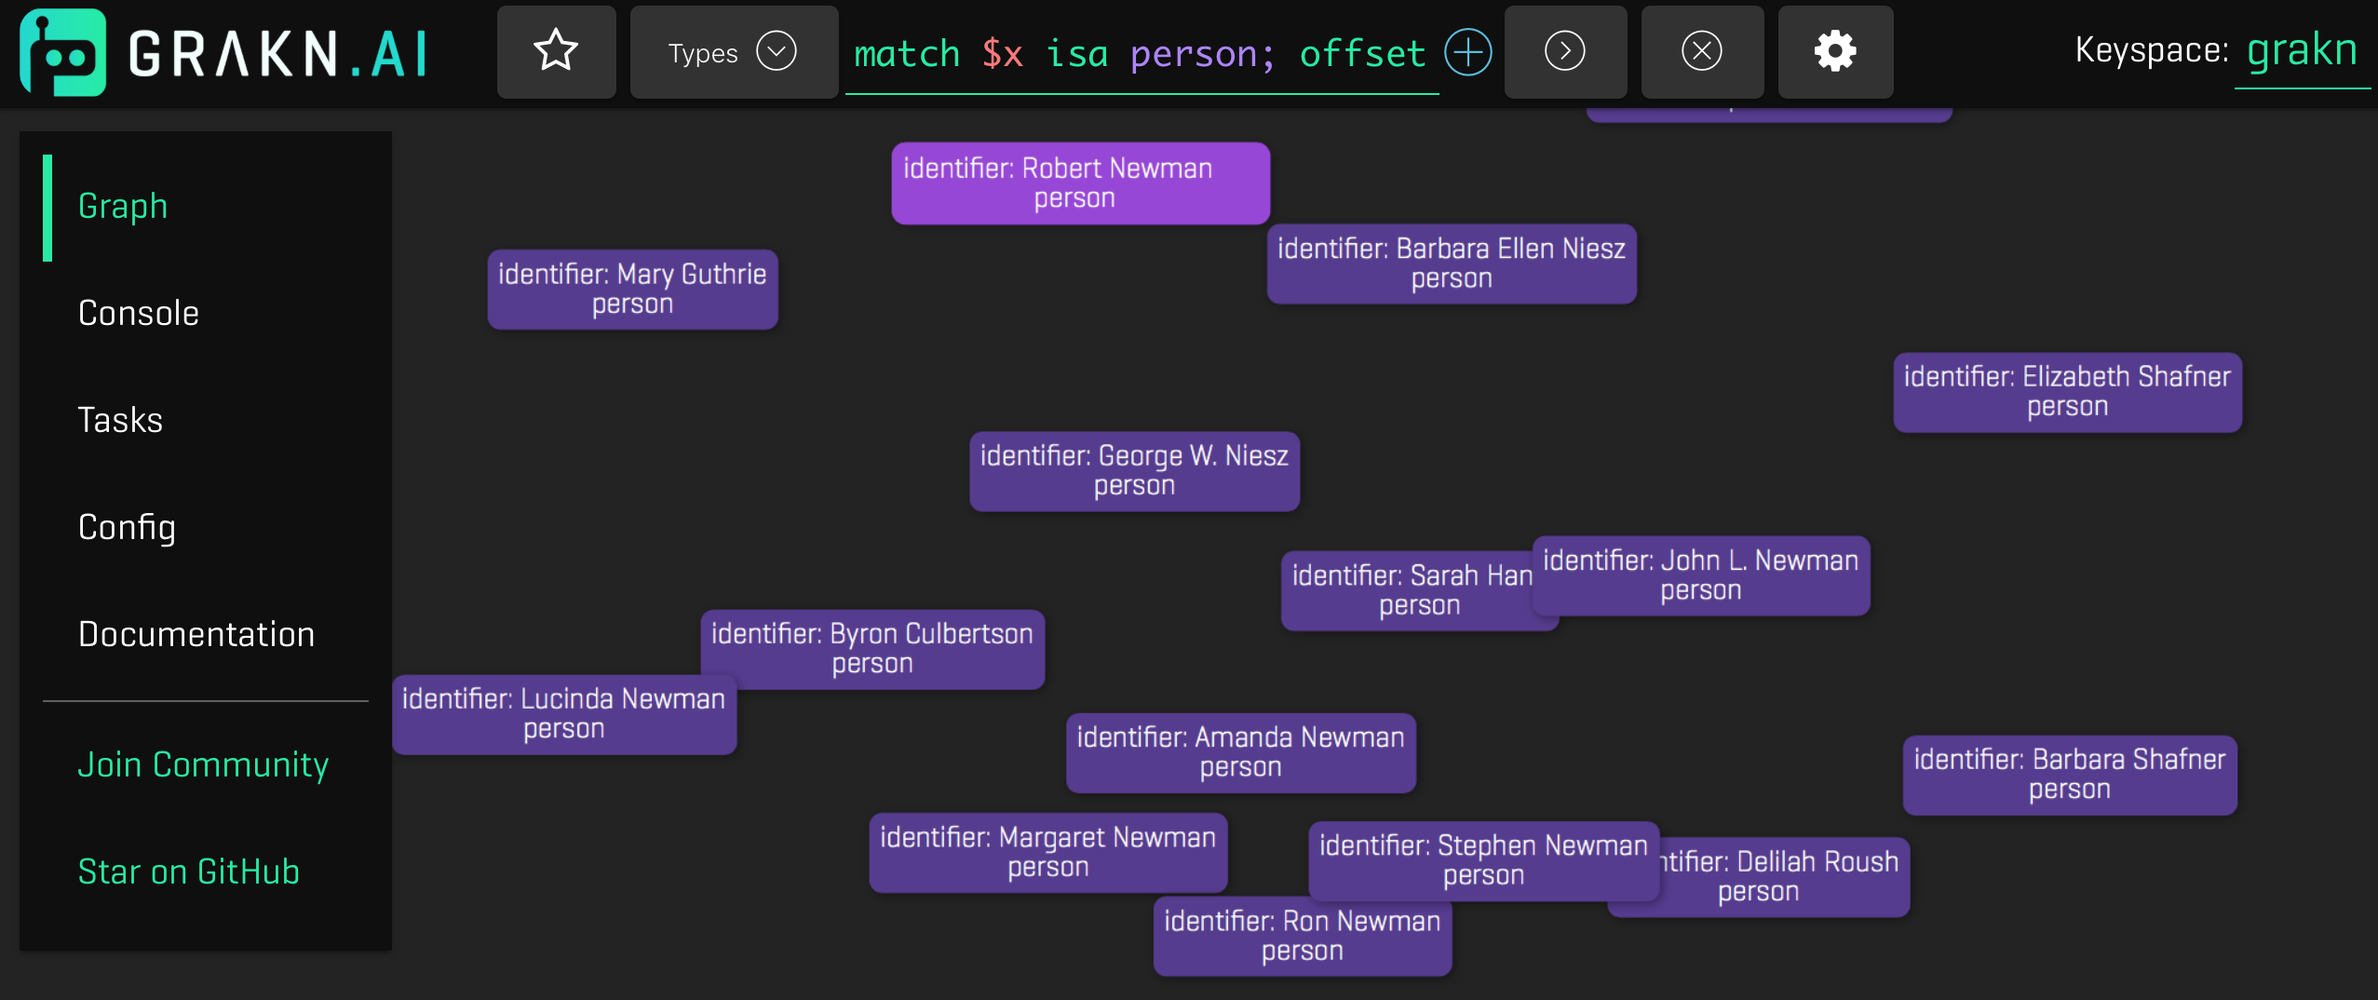
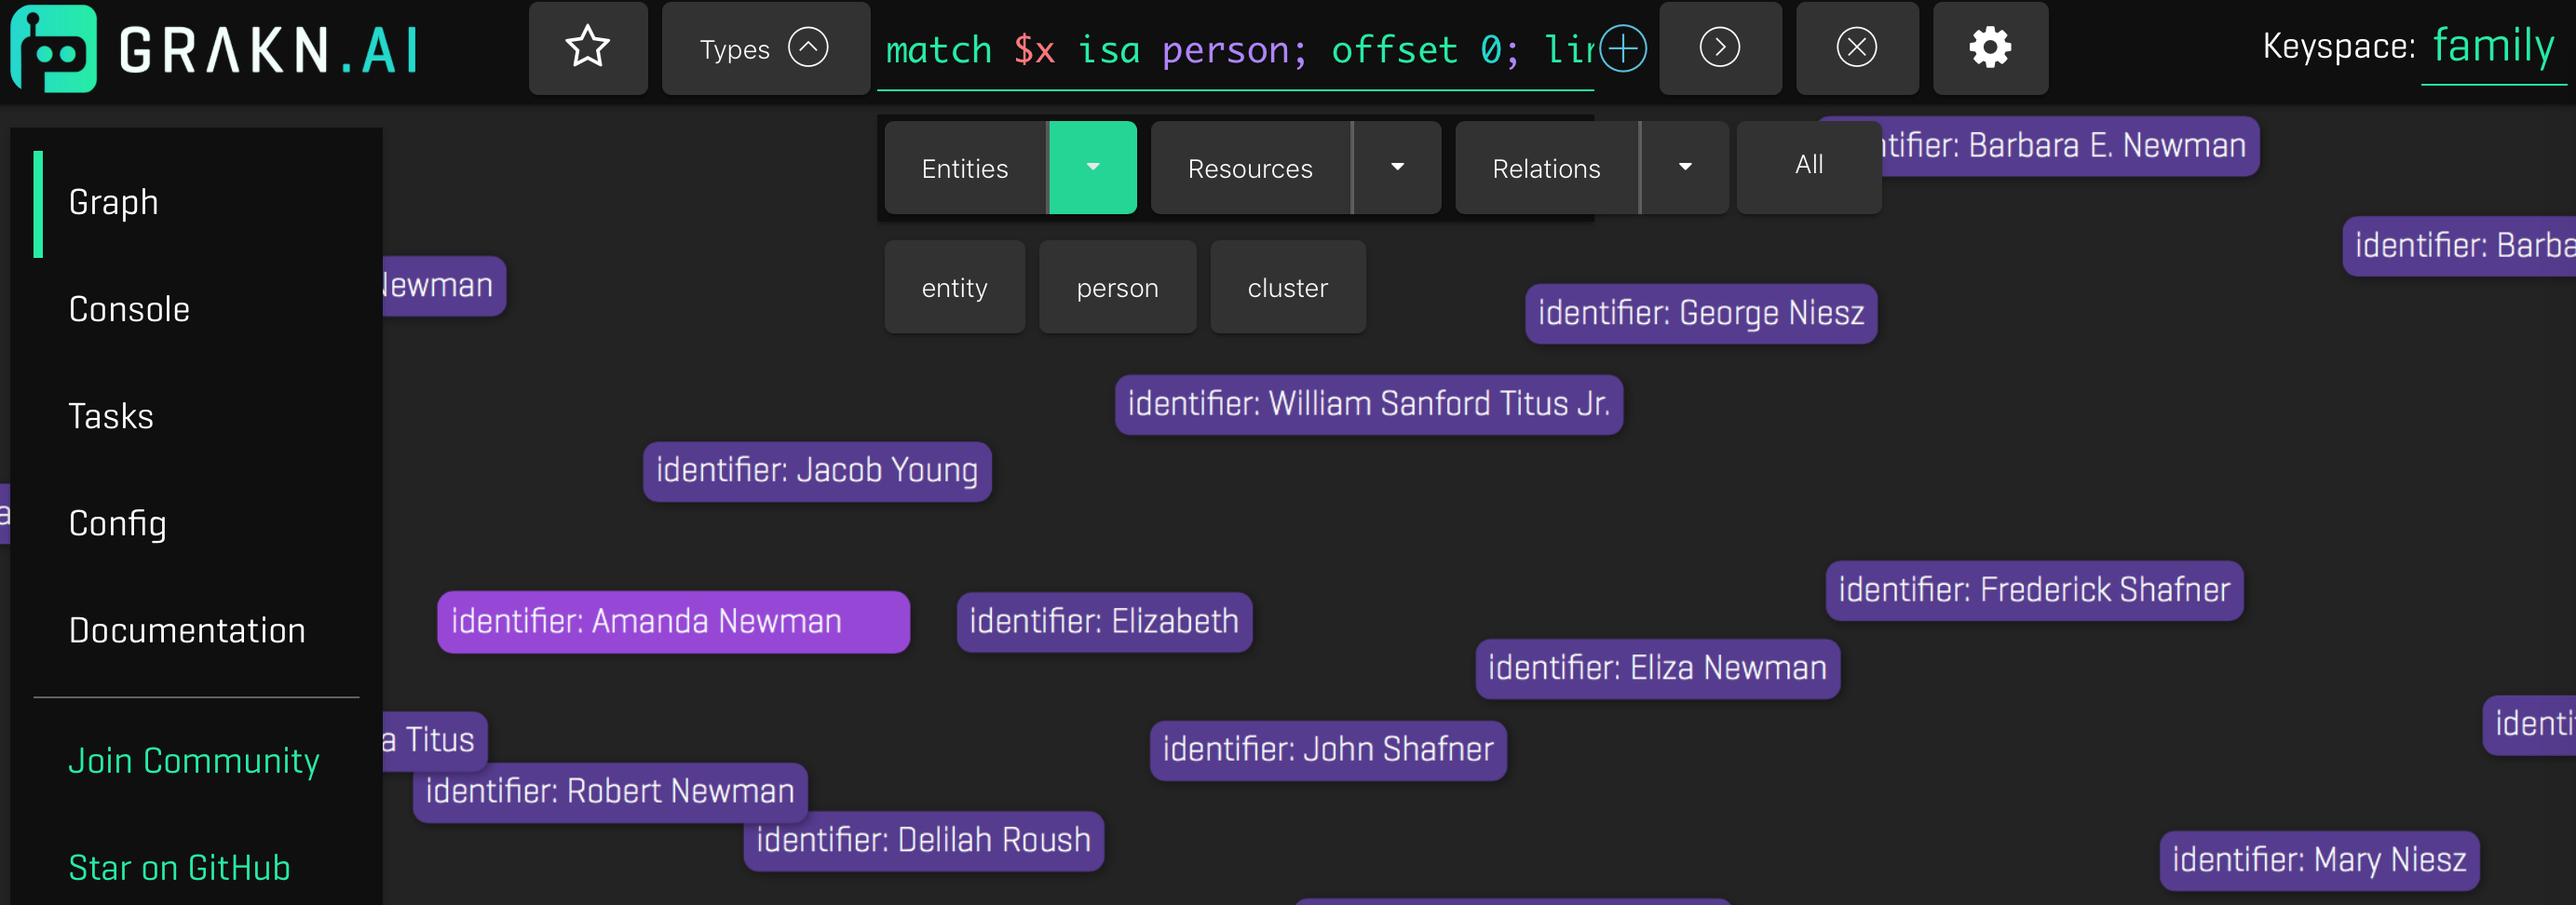
Update visualiser documentation

diff --git a/pages/documentation/7-grakn-dashboard/visualiser.md b/pages/documentation/7-grakn-dashboard/visualiser.md
@@ -10,12 +10,12 @@ folder: documentation
 comment_issue_id: 17
 ---
 
-{% include warning.html content="<b>These instructions refer to the 0.11 release of GRAKN.AI. The latest version has some differences to its look and feel, and you may find that some instructions are currently inaccurate. Apologies! We will update this information very shortly.</b>" %}
+{% include note.html content="These instructions refer to the <b>[0.12.1](https://github.com/graknlabs/grakn/releases/tag/v0.12.1)</b> release of GRAKN.AI. Later versions of the product may include some changes to the user experience, and you may find that some instructions become out-dated. We will endeavour to update information on this page as soon after a release as is possible. The instructions here refer to use of the visualiser on macOS, and screen grabs were taken in Safari." %}
 
 ## Introduction
-The Grakn visualiser provides a graphical tool to inspect and query your graph data. This article shows how to get it up and running on a basic example and introduces the visualiser's key features.
+The Grakn visualiser provides a graphical tool to inspect and query your graph data. This article shows how to run it with a basic example and introduces the visualiser's key features.
 
-## Loading and Visualising a Graph
+## Loading an Example Graph
 If you have not yet set up the Grakn environment, please see the [Setup guide](../get-started/setup-guide.html).
 
 You can find the *basic-genealogy.gql* example that we will work with in the *examples* directory of the Grakn distribution zip. You can also find this file on [Github](https://github.com/graknlabs/grakn/blob/master/grakn-dist/src/examples/basic-genealogy.gql). 
@@ -27,33 +27,31 @@ The first step is to load the ontology and data into Grakn. You need to use your
 <relative-path-to-Grakn>/bin/graql.sh -f ./examples/basic-genealogy.gql -k "family"
 ```
 
-{% include note.html content="To illustrate the use of different keyspaces, will we use a keyspace called `family` in this example, but you can simply use the default keyspace if you prefer, if it is not already in use, by omitting the -k argument." %}
+To illustrate the use of different keyspaces we will use a keyspace called `family` in this example. You can simply use the default (`grakn`) keyspace if you prefer, by omitting the -k argument.
 
 You can test in the Graql shell that all has loaded correctly. For example:
 
 ```bash
 <relative-path-to-Grakn>/bin/graql.sh -k family
-match $p isa person, has identifier $i;
+>>>match $p isa person, has identifier $i;
 ```
 
-Now open the visualiser by browsing to [localhost:4567](http://localhost:4567). 
+If all is well, you can open the visualiser by browsing to [localhost:4567](http://localhost:4567). 
 
-To visualise your graph, go to the keyspace selector on the top right and select the appropriate keyspace, e.g. `family`.
+There are a number of horizontal tabs on the left hand side of the screen, which open panes, described as follows.
 
-The main pane of your graph will be empty at this point. Click the Types dropdown in the top menu, then Entities and `person`. 
-The query for your selection will be displayed in the form with a default limit of 100 results applied. In this case:
+## Graph Pane
 
-```graql
-match $x isa person; offset 0; limit 100;
-```
+This is the default section of the visualiser, and is the main pane that you will use to explore a graph with GRAKN.AI. 
 
-If you click and hold on any of the entities - a pop-up will open to allow you to select the labels shown on each node in the graph. In the screenshot below, we have selected to show the identifiers of each person.
+Go to the keyspace selector at the top right and select the appropriate keyspace, e.g. `family`.
 
-![Person query](/images/match-$x-isa-person.png)
+![Visualiser UI](/images/visualiser-ui-0.12.png)
 
-To clear the graph, press Shift + the "Clear" button (the circle with the cross through it). 
+### Make a Query
 
-You can also submit queries by typing them into the form, then pressing ">" to visualise the graph. You can zoom the display in and out, and move the nodes around for better visibility. For example:
+The main pane of your graph will be empty at this point. You can submit queries by typing them into the form in the middle of the top menu bar. You will then need to click '>' to visualise the graph. For example:
+
 
 ```graql
 match $x isa person, has firstname "John"; 
@@ -61,101 +59,155 @@ match $x isa person, has firstname "John";
 
 ![John query](/images/john-query.png)
 
-Note that the `offset 0; limit 30` values are applied automatically, but the default values can be changed via the Query Settings, accessed under the cog icon at the right hand of the icon set.
+You can zoom the display in and out, and move the nodes around for better visibility. 
 
-## Working With The Visualiser
+Alternatively, for simple visualisation, you can click the Types dropdown in the top menu to list out what is in the ontology. For our example, go to the Entities dropdown and choose `person`. The query specific to your selection will be displayed in the form with a default offset and result limit, which is applied by the visualiser (`offset 0; limit 30`). 
 
-There are a number of horizontal tabs on the left hand side of the screen, described as follows.
+```graql
+match $x isa person; offset 0; limit 30;
+```
 
-### Graph
-This is the main section of the visualiser that you will use to explore the graph. 
+You can change the offset and limit on the number of results as [described below](#query-limit). 
 
-<!-- TO DO - this is where text about using the visualiser should go -->
+![Person query](/images/match-$x-isa-person.png)
 
-<!--Add this back in when it works as expected
+If you click and hold on any of the entities, a pop-up will open to allow you to select the labels shown on each node in the graph. In the screenshot below, we have selected to show the identifiers of each person.
+
+### Save a Query
+
+If you make a query that you think you'll need to repeat regularly, and don't want to type it, or copy and paste it each time, you can save your query. The small plus sign in a circle on the right hand side of the form will bring up a summary of the query, allowing you to assign it a name and save it. Saved queries can then be retrieved using the star button on the left hand side of the horizontal icon set.
+
+
+### Clear the Graph
+To clear the query from the form, press the "Clear" button (the circle with the cross through it).  
+
+To clear the entire graph area, press Shift + the "Clear" button.
+
+### Investigate a Node
+
+A single click on any node in the graph brings up a pane of information about the node at the top right hand side of the screen. The information displayed includes the ID of the node, its type and any resources associated with it, as shown in the figure below. 
+
+![Single click](/images/single-click-info-pane.png)
+
+Holding shift and making a click on a node also brings up the resources associated with it, displaying them in the graph, as shown.
+
+![Single click](/images/shift-click.png)
+
+A double click on a node will bring up the relations associated with the node, as shown below.
+
+![Double click](/images/double-click.png)
+
+### Change the Display
+
+A single click and hold on a node in the graph brings up a pane on the lower left hand side of the screen. You can use this to show different information about a node on the graph and change the colour of the nodes.
+
+<!--Add this back in when it works as expected in release 0.13 or beyond
+### Explore Types
 
 We have already shown an example of how to examine `person` entities using the entity selector. As another example, select "Types", followed by "Relations" and filter on `marriage` relations. The query will be shown in the query section at the top of the main pane, as previously, and the visualiser displays all the `marriage` relations in the graph. 
 
 ![Marriages query](/images/marriages.png)
 
-A short video illustrates the process:
-
-<iframe width="640" height="360" src="https://www.youtube.com/embed/OLuVwjPrhbc" frameborder="0" allowfullscreen></iframe>
-
-<br />
 -->
 
 
-#### Inference
+### Query Settings
 
-There are 4 query settings that can be changed using the 'cog' button (on the far right hand side of the horizontal icon menu at the top of the screen):
+Query Settings can be accessed under the cog icon at the right hand of the horizontal icon set. The following settings are available
 
-* Lock nodes position - 
-* Activate inference - activates inference, per query.
-* Materialise inference - persists the inference into the graph, per query.
-* Materialise All: activate and persist all inference across the graph.
+![Person query](/images/query-settings.png)
 
-#### Analytics Queries - Shortest Path
-You will notice a 'pencil' icon (on the far left of the horizontal icon menu at the top of the screen) that can be used to build Graql queries. The following video illustrates how to build a shortest path query:
+#### Lock Nodes Position   
+
+This option allows you to organise your nodes, lock them into position, and then use the visualiser to explore the graph, clicking to reveal connections and details about the nodes without them jumping out of place.  
+
+If you want to tidy your nodes by aligning them all horizontally or vertically, you can do this through the Query Builder menu, described below. You need to first unlock the nodes so they can be automatically aligned for you.
+
+#### Inference   
+
+There are 3 inference settings that can be changed.
+
+* Activate inference - activates inference, per query. It is off by default, but turn this on when you need to run queries that use inference.
+* Materialise inference - persists the inference into the graph, per query. This is off by default, but should be turned on when running a query when you want to add the results of inference back into the graph.
+* Materialise All: Off by default. Activates and persists all inference across the graph.
+
+#### Query Limit   
+
+You can change the offset and limit on the number of results returned by editing the value directly in the submission form, or by adjusting the Query Limit setting.  
+
+### Query Builder menu
+
+Right-clicking the mouse brings up the Query Builder menu, which allows you to further explore the graph, as follows.
+
+#### Shortest Path
+{% include note.html content="Make sure to [activate inference](#inference) before running a shortest path query!" %}
+
+<!-- The following video illustrates how to build a shortest path query:
+
+NEEDS UPDATING
 
 <iframe width="640" height="360" src="https://www.youtube.com/embed/OLuVwjPrhbc" frameborder="0" allowfullscreen></iframe>
 
-<br />
+<br /> -->
 
-We will walk through what is shown in the video. 
-
-The first step is to clear the graph, then choose two people from the genealogy dataset, to determine the shortest path between them. For example, use the following query, and enter it into the form in the visualiser:
+The first step is to clear the graph, then choose two people from the genealogy dataset, to determine the shortest path between them. For example, use the following query, and enter it into the form in the visualiser, to bring up two nodes:
 
 ```graql
-match $x isa person has firstname "Susan" has surname "Dudley";
-$y isa person has firstname "Barbara" has surname "Herchelroth";
+match $x isa person has firstname "Susan" has surname "Dudley"; $y isa person has firstname "Barbara" has surname "Herchelroth";
 ```
 
-1. Submit the query by pressing ">" to visualise the graph. Just the two people in question (Susan Dudley and Barbara Herchelroth) should be visible in the graph. 
-
-2. Use the pencil button to open the Query Builders menu. We will use the first item in the drop-down, which is "Shortest Path". Click the "Start" button, then click first one node in the graph, and then click the other node (thus connecting the two people). 
-
-3. Submit the shortest path query, which you will see in the form at the top of the visualiser, but pressing ">". 
-
-The visualiser submits a query as follows: 
+1. Submit the query by pressing '>' to visualise the graph. The two people in question (Susan Dudley and Barbara Herchelroth) should be shown. 
+2. Holding down the *cmd* key, single click on each of the two nodes.
+3. Right click the mouse to bring up the Query Builder menu, and select *Shortest path* from the menu.
+4. The submission form will now contain the shortest path query for those two nodes, for example: 
 
 ```graql
 compute path from "102432" to "192584"; # (The ID values in the strings will be different for each graph)
 ```
  
-The graph will display the relations, and nodes, that connect the two by the shortest path. If you chose Susan Dudley and Barbara Herchelroth, you should discover that Barbara is the great-grandmother of Susan’s husband.
+Submit the query as usual by clicking '>' and the graph will display the relations and nodes that connect the two by the shortest path. For Susan Dudley and Barbara Herchelroth, you should discover that Barbara is the great-grandmother of Susan’s husband.
+
+![Person query](/images/shortest-path.png)
 
 #### Explore Relations
 
 {% include note.html content="Make sure to [activate inference](#inference) before exploring relations!" %}
 
-The Query Builder menu also has an "Explore Relations" option, which allows you to determine the relations between nodes. To illustrate that, clear the graph and submit a query as follows:
+The Query Builder menu that is brought up from a right click of the mouse also has an "Explore Relations" option. This option allows you to determine the relations between nodes. To illustrate that, clear the graph and submit a query as follows:
 
 ```graql
 match $x isa person has surname "Niesz"; offset 0; limit 100; # Find everyone with surname Niesz
 ```
 
-1. Use the pencil button to open the Query Builders menu. We will use the "Explore Relations" option. Click the "Start" button, then click first one node in the graph, and then click another node (thus connecting two people with the same surname - it doesn't matter too much who you choose). 
+1. Select any two people with surname Niesz (it doesn't matter who) by single left clicking on two nodes while holding down the *cmd* key.
+2. Open the Query Builder menu by right clicking the mouse. 
+3. The submission form will now contain a query for those two nodes, for example:
 
-3. Submit the shortest path query, which you will see in the form at the top of the visualiser, but pressing ">". 
-
-The visualiser submits a query as follows (the ID values will differ for every graph):
-
-```graql 
-match $x id "102432"; $y id "192584"; $r($x, $y); offset 0; limit 100;
+```graql
+match $x id "651472"; $y id "889000"; $r ($x, $y);
 ```
 
-The visualiser will display the relations between the two nodes you selected (e.g. siblings).
+Submit the query as usual by clicking '>' and the graph will display the relations, and nodes, that connect the two. The visualiser will display the relations between the two nodes you selected (e.g. siblings).
 
-### Console
+#### Align Nodes
+
+If you want to tidy your graph to align the nodes horizontally or vertically, you can do this from the Query Builder menu.
+
+1. To select the nodes you want to tidy, you need to 'capture' them in a selection area. Bring up the selector by holding down *ctrl* and clicking on the blank canvas (not on a node).  
+2. A green movable square will be illuminated: pull it over the nodes you wish to capture.
+3. Right click the mouse to pull up the Query Builder menu.
+4. Select Align nodes horizontally or vertically, as required.
+
+## Console
 You can use this console to make queries instead of running a Graql shell in your terminal. You can run `match` and `compute` queries, but because the visualiser is read-only, you cannot make insertions.
 
-### Config
-Shows a view on the Grakn configuration file. 
+## Tasks
 
-### Documentation
+## Config
+Displays a view on the Grakn configuration file. 
+
+## Documentation
 This opens a separate tab in your browser and points it to the Grakn documentation portal. It may be how you ended up on this page!
-
 
 ## Where Next?
 
